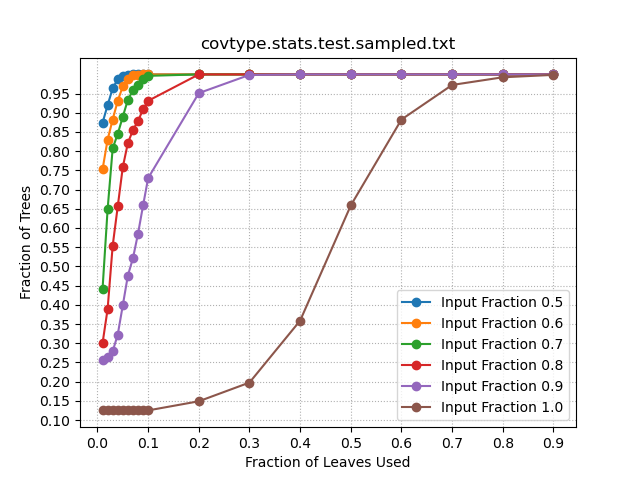
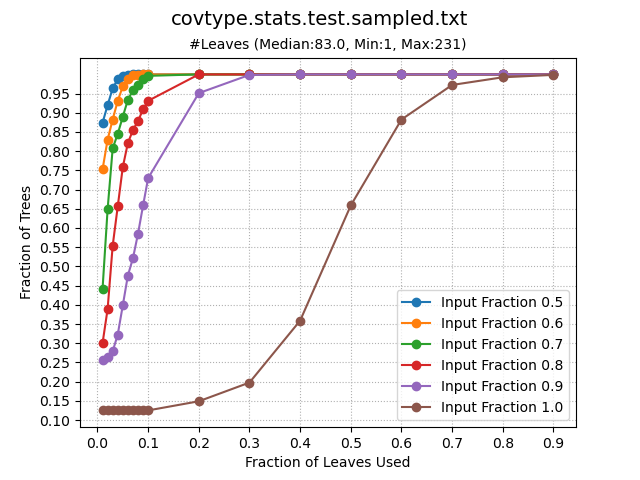
Add leaf count stats to plots

Changed region(s): [[0.25, 0.0312, 0.75, 0.125]]

diff --git a/results/python/plot_inference_stats.py b/results/python/plot_inference_stats.py
@@ -1,8 +1,11 @@
+from optparse import Values
+import statistics
 import sys
 import os
 import matplotlib.pyplot as plt
 import math
 import numpy
+import stat
 
 stats_file = sys.argv[1]
 print("Analyzing file ", stats_file)
@@ -21,6 +24,11 @@ with open(stats_file, 'r') as f:
     hit_counts = [int(numbers[i]) for i in range(0, len(numbers), 2)]
     depths = [int(numbers[i]) for i in range(1, len(numbers), 2)]
     tree_stats[i] = (hit_counts, depths)
+
+num_leaves = [len(v[0]) for v in tree_stats.values()]
+min_num_leaves = min(num_leaves)
+median_num_leaves = statistics.median(num_leaves)
+max_num_leaves = max(num_leaves)
 
 # For a given percentage of inputs (say p%), plot fraction of leaves on x-axis vs how many
 # trees would cover p% of inputs with x% of leaves (i.e at x=0.5, how many trees in the model
@@ -61,7 +69,8 @@ for input_fraction in input_fractions:
 
 plt.xlabel("Fraction of Leaves Used")
 plt.ylabel("Fraction of Trees")
-plt.title(os.path.basename(stats_file))
+plt.suptitle(os.path.basename(stats_file), fontsize=14)
+plt.title("#Leaves (Median:" + str(median_num_leaves) + ", Min:" + str(min_num_leaves) + ", Max:" + str(max_num_leaves) + ")", fontsize=10)
 plt.legend()
 plt.grid(linestyle="dotted")
 plt.savefig(stats_file + ".png")
